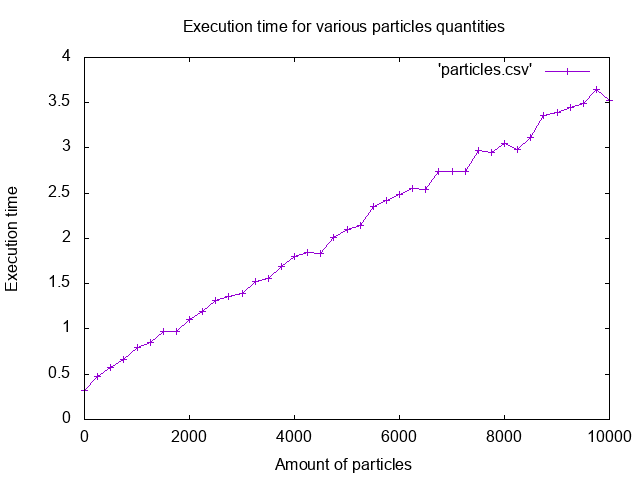
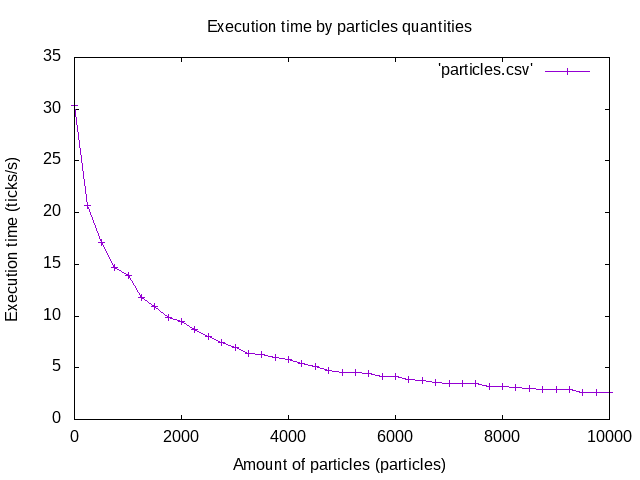
changed profile to print ticks per seconds

diff --git a/Main.py b/Main.py
@@ -160,13 +160,15 @@ def main():
 def profile():
     nbParticles = data["nbParticles"]
     profileStep = data["profileStep"]
+    nbTicks = data["nbTicks"]
     for i in range(0, nbParticles +1, int(nbParticles / profileStep)):
         startTime = time.clock()
         main = Main(nbParticles=i)
         main.run()
         endTime = time.clock()
         executionTime = endTime - startTime
-        print("%d,%5f" % (i, executionTime))
+        tps = nbTicks / executionTime
+        print("%d,%f" % (i, tps))
 
 def run():
     main = Main()
